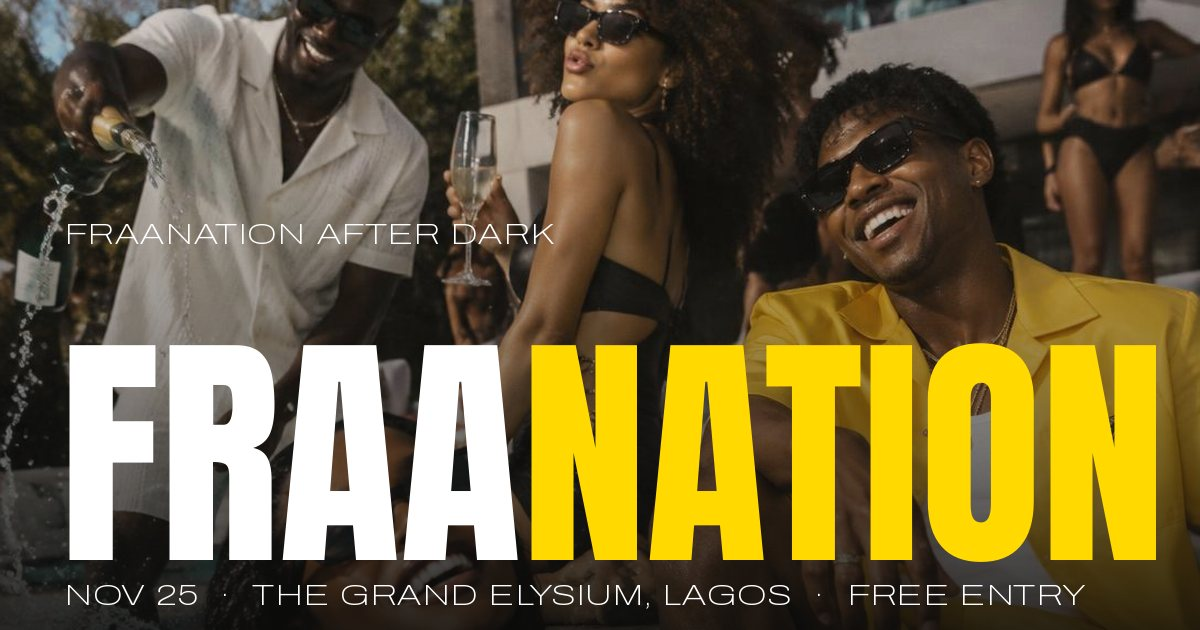
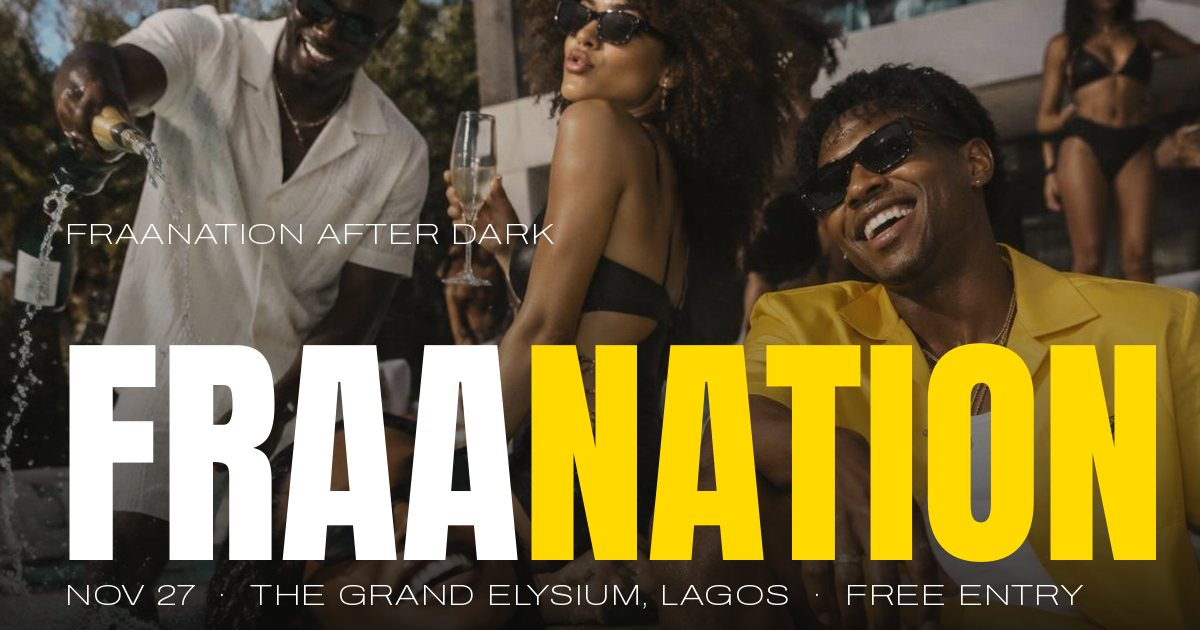
Move After Dark to November 27, 2026

Changed region(s): [[0.2158, 0.9048, 0.6783, 0.9651], [0.7092, 0.9349, 0.8942, 0.9651], [0.1542, 0.9349, 0.185, 0.9651]]

diff --git a/src/components/flair.tsx b/src/components/flair.tsx
@@ -11,7 +11,7 @@ export function Sticker({ onClick }: { onClick: () => void }) {
         <defs><path id="sticker-ring" d="M100,100 m-79,0 a79,79 0 1,1 158,0 a79,79 0 1,1 -158,0" /></defs>
         <circle cx="100" cy="100" r="99" fill="#FFD900" />
         <text fontSize="17" fontWeight="700" fill="#111" style={{ fontFamily: "Archivo, system-ui, sans-serif" }}>
-          <textPath href="#sticker-ring" textLength="492" lengthAdjust="spacing">FREE ENTRY ✦ NOV 25 ✦ LAGOS ✦ AFTER DARK ✦ </textPath>
+          <textPath href="#sticker-ring" textLength="492" lengthAdjust="spacing">FREE ENTRY ✦ NOV 27 ✦ LAGOS ✦ AFTER DARK ✦ </textPath>
         </text>
       </svg>
       <span className="font-display absolute inset-0 grid place-items-center text-3xl text-ink md:text-5xl">RSVP</span>
@@ -19,7 +19,7 @@ export function Sticker({ onClick }: { onClick: () => void }) {
   );
 }
 
-const tape = "AFTER DARK ✦ NOV 25 ✦ THE GRAND ELYSIUM ✦ FREE ENTRY ✦ 9PM TILL DAWN ✦ ";
+const tape = "AFTER DARK ✦ NOV 27 ✦ THE GRAND ELYSIUM ✦ FREE ENTRY ✦ 9PM TILL DAWN ✦ ";
 
 export function Band({ className, reverse }: { className: string; reverse?: boolean }) {
   return (
@@ -112,7 +112,7 @@ export function CtaBand({ line, accent, secondary }: { line: string; accent: str
   return (
     <section className="grain relative bg-ink text-ink-foreground">
       <div className="relative mx-auto max-w-[1400px] px-5 py-20 md:px-10 md:py-32">
-        <p className="eyebrow text-sun">After Dark · Nov 25 · Free entry</p>
+        <p className="eyebrow text-sun">After Dark · Nov 27 · Free entry</p>
         <h2 className="font-display reveal mt-5 max-w-5xl text-[15vw] leading-[0.85] md:text-[9rem]">{line} <span className="text-sun">{accent}</span></h2>
         <div className="mt-10 flex flex-col gap-5 md:flex-row md:items-center md:gap-8">
           <button type="button" onClick={open} className="btn-sun w-full md:w-auto">{hasTicket ? "View my ticket" : "Reserve your spot — it's free"} <span aria-hidden="true">→</span></button>

diff --git a/src/routes/events.tsx b/src/routes/events.tsx
@@ -14,10 +14,10 @@ const eventQuery = queryOptions({ queryKey: ["event", "pool-party"], queryFn: fe
 export const Route = createFileRoute("/events")({
   head: () => ({
     meta: [
-      { title: "FRAANATION After Dark — 25.11.26 · The Grand Elysium, Lagos" },
-      { name: "description", content: "FRAANATION After Dark. Nov 25, 2026, 9PM till dawn at The Grand Elysium, Idimu, Lagos. Free entry by reservation." },
+      { title: "FRAANATION After Dark — 27.11.26 · The Grand Elysium, Lagos" },
+      { name: "description", content: "FRAANATION After Dark. Nov 27, 2026, 9PM till dawn at The Grand Elysium, Idimu, Lagos. Free entry by reservation." },
       { property: "og:title", content: "FRAANATION After Dark — Where the night gets wet." },
-      { property: "og:description", content: "Nov 25 · 9PM till dawn · The Grand Elysium, Lagos. Free entry — reserve your spot." },
+      { property: "og:description", content: "Nov 27 · 9PM till dawn · The Grand Elysium, Lagos. Free entry — reserve your spot." },
     ],
   }),
   loader: ({ context }) => context.queryClient.ensureQueryData(eventQuery).catch(() => null),
@@ -55,7 +55,7 @@ function Splash() {
           </h1>
           <p className="font-editorial rise mt-4 text-3xl md:text-5xl" style={{ animationDelay: "160ms" }}>Where the night gets wet.</p>
           <div className="rise mt-8 grid grid-cols-2 gap-y-3 border-t border-ink-foreground/25 pt-5 md:grid-cols-4" style={{ animationDelay: "240ms" }}>
-            {["25.11.26", "9PM — Till dawn", ev.venue, ev.city].map((x) => <p key={x} className="eyebrow">{x}</p>)}
+            {["27.11.26", "9PM — Till dawn", ev.venue, ev.city].map((x) => <p key={x} className="eyebrow">{x}</p>)}
           </div>
           <p className="eyebrow rise mt-6" style={{ animationDelay: "300ms" }}><span className="bg-sun px-2 py-1 text-ink">Free entry</span> <span className="ml-2">Reservation required</span></p>
           <div className="rise mt-8 grid gap-3 md:flex" style={{ animationDelay: "360ms" }}>

diff --git a/src/routes/index.tsx b/src/routes/index.tsx
@@ -8,7 +8,7 @@ export const Route = createFileRoute("/")({
   head: () => ({
     meta: [
       { title: "FRAANATION — Entertainment, Fashion & Culture" },
-      { name: "description", content: "FRAANATION is an entertainment, fashion and community brand. FRAANATION After Dark — Nov 25, 2026, Lagos. Free entry by reservation." },
+      { name: "description", content: "FRAANATION is an entertainment, fashion and community brand. FRAANATION After Dark — Nov 27, 2026, Lagos. Free entry by reservation." },
       { property: "og:title", content: "FRAANATION — Entertainment, Fashion & Culture" },
       { property: "og:description", content: "Events, THE FRAANATION COLLECTION and a community built for the culture." },
     ],
@@ -29,7 +29,7 @@ function Index() {
 
         <div className="relative mx-auto flex h-full max-w-[1400px] flex-col px-5 pt-24 md:px-10">
           <div className="flex justify-between">
-            <p className="eyebrow rise">After Dark · Nov 25</p>
+            <p className="eyebrow rise">After Dark · Nov 27</p>
             <p className="eyebrow rise hidden md:block">Lagos / Worldwide</p>
           </div>
 

diff --git a/src/lib/brand-data.ts b/src/lib/brand-data.ts
@@ -13,14 +13,14 @@ export const crowdImage = crowd;
 export const poolParty = {
   title: "FRAANATION After Dark",
   tagline: "Where the night gets wet.",
-  date: "November 25, 2026",
-  month: "Nov 25, 2026",
+  date: "November 27, 2026",
+  month: "Nov 27, 2026",
   time: "9:00 PM — Till Dawn",
   venue: "The Grand Elysium",
   address: "9 Taiye Odunjo St., Behind Grace Hotel, Idimu, Lagos",
   city: "Lagos",
   price: "Free",
-  startsAt: "2026-11-25T21:00:00+01:00",
+  startsAt: "2026-11-27T21:00:00+01:00",
   details: [
     "Free entry — reservation required",
     "Music, fashion and people — one night, till dawn",

diff --git a/src/components/registration-form.tsx b/src/components/registration-form.tsx
@@ -79,7 +79,7 @@ function YoureIn({ t, ev, onReset }: { t: Ticket; ev: EventRow; onReset: () => v
       setSaving(false);
     }
   }
-  const text = "I'M GOING TO FRAANATION AFTER DARK.\nNOV 25.\n9PM TILL DAWN.\nFRAANATION.";
+  const text = "I'M GOING TO FRAANATION AFTER DARK.\nNOV 27.\n9PM TILL DAWN.\nFRAANATION.";
   async function share() {
     const url = `${window.location.origin}/events`;
     try {
